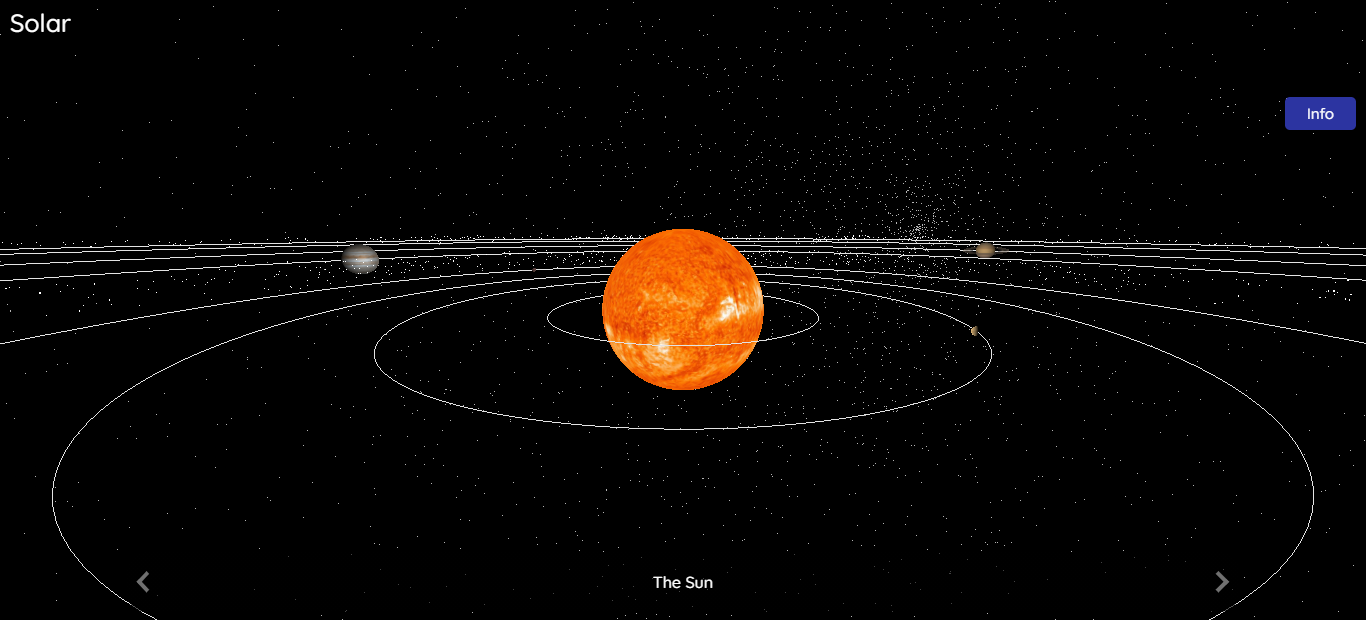
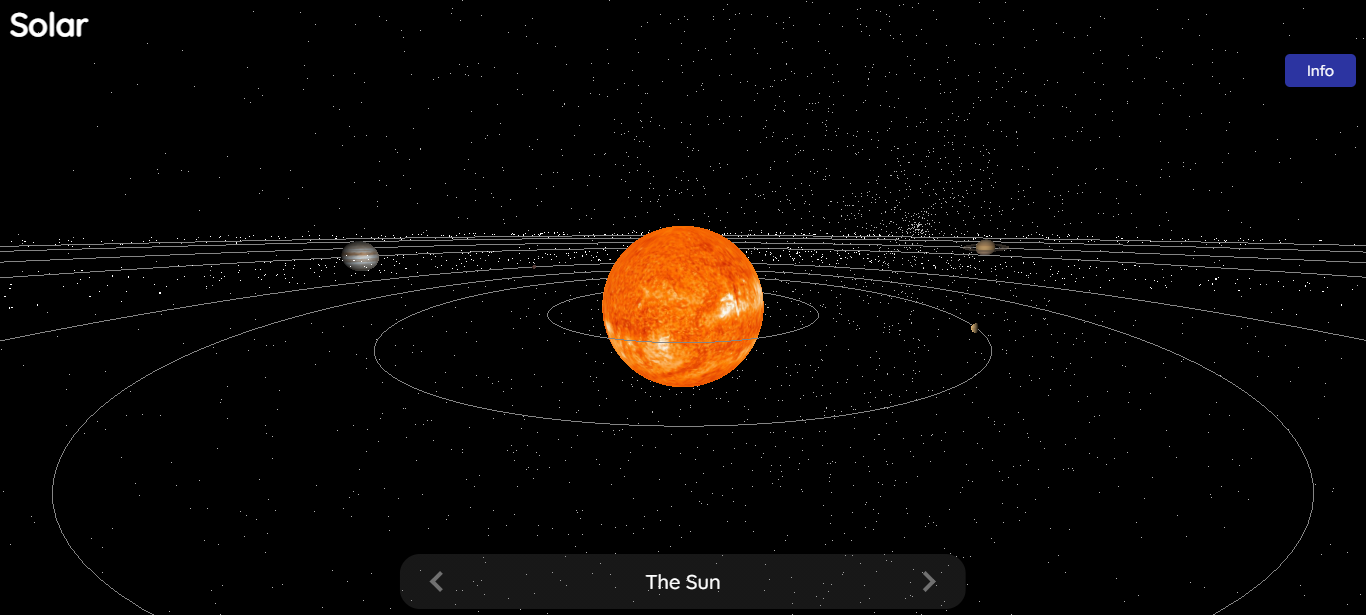
updated README.md file

diff --git a/public/index.html b/public/index.html
@@ -3,6 +3,10 @@
   <head>
     <meta charset="UTF-8" />
     <meta http-equiv="X-UA-Compatible" content="IE=edge" />
+    <meta
+      name="description"
+      content="Solar - A 3D space exploration web application"
+    />
     <meta name="viewport" content="width=device-width, initial-scale=1.0" />
     <meta name="theme-color" content="#000000" />
     <link rel="icon" href="./img/logo.png" />
@@ -20,7 +24,7 @@
   <body>
     <header>
       <div class="logo-wrapper">
-        <p>Solar</p>
+        <h1>Solar</h1>
       </div>
     </header>
 

diff --git a/public/css/index.css b/public/css/index.css
@@ -20,7 +20,7 @@ header {
   padding: 10px;
 }
 
-header .logo-wrapper p {
+header .logo-wrapper h1 {
   font-size: 25px;
 }
 

diff --git a/README.md b/README.md
@@ -4,7 +4,12 @@
 
 A personal project I built with vanilla javascript. I used the three.js javascript library to build an interactive 3D render of our solar system. This is a single page web app designed to provide information about the beautiful planets of our solar system. Planetary data is sourced - via AJAX - from the [Solar Systen OpenData](https://api.le-systeme-solaire.net/en/) API.
 
-**Note: The work on this project is still in progress!**
+## Technologies used:
+
+- HTML/CSS
+- Javascript
+- Three.js javascript library
+- The [Solar Systen OpenData](https://api.le-systeme-solaire.net/en/) API
 
 ## Screenshot
 
@@ -15,8 +20,4 @@ A personal project I built with vanilla javascript. I used the three.js javascri
 - Users can navigate between planets using the navigation bar at the bottom of the page
 - Get information on the planet by clicking on the blue `Info` button on the top right of the page
 - Get more detailed information on the planet by clicking on the blue `More info` button (found in the info tab displayed after clicking the `Info` button)
-
-### Features not yet achieved
-
-- [ ] Add planet specific data in the planet info window (i.e. in the window displayed after the `More info` button is clicked)
-- [ ] Enable user to input their age and weight so that they can compare it with their weight and age on each planet
+- Users can enter their weight and age so they can see how much they would weigh and how old they are on each planet
